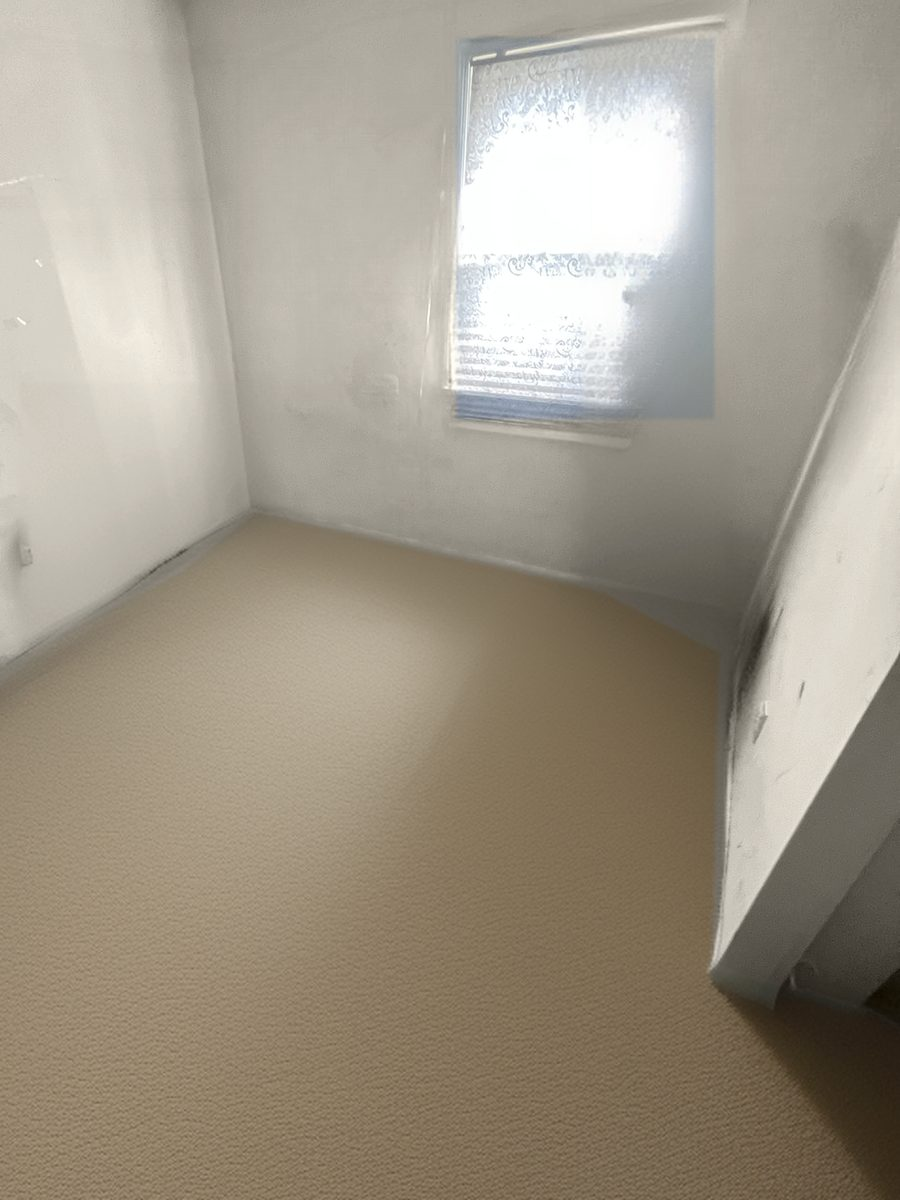
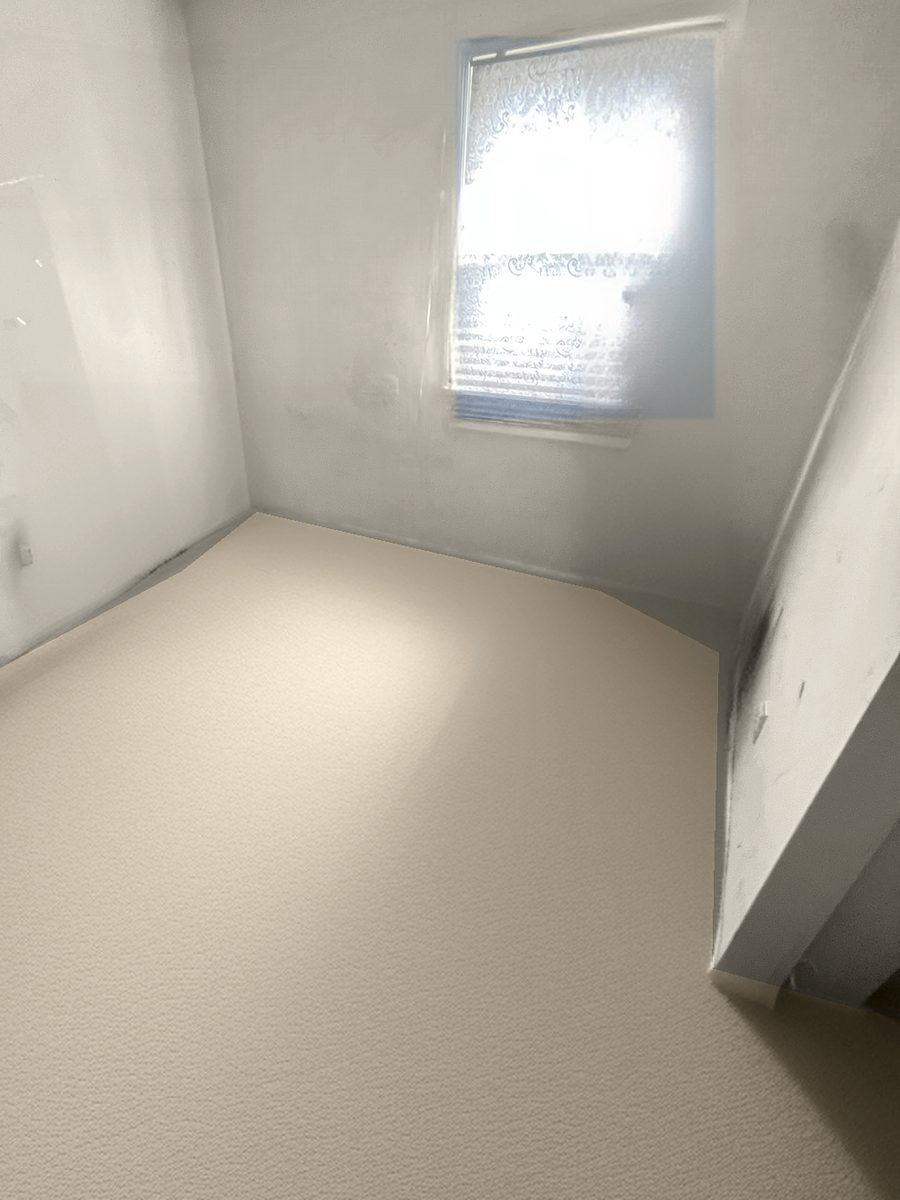
717 Gaskill: per-room package comparison (slider removed)
Claude-Session: https://claude.ai/code/session_01NLgoSYizUiw31tD78Qe9eR

diff --git a/projects/717-gaskill/investor/index.html b/projects/717-gaskill/investor/index.html
@@ -259,25 +259,26 @@
       .table-scroll { overflow: visible; }
       table.cmp { min-width: 0; }
     }
-    /* Before / after */
-    .ba-list { display: grid; gap: 56px; }
-    .ba { display: grid; gap: 28px; align-items: start; }
-    @media (min-width: 960px) { .ba { grid-template-columns: 1.15fr .85fr; } .ba:nth-child(even) .ba-figure { order: 2; } }
-    .ba-figure { margin: 0; }
-    .ba-frame { position: relative; aspect-ratio: 3 / 4; overflow: hidden; border: 1px solid var(--gray); background: var(--gray); touch-action: pan-y; user-select: none; }
-    .ba-frame img { position: absolute; inset: 0; width: 100%; height: 100%; object-fit: cover; display: block; pointer-events: none; }
-    .ba-frame .after { clip-path: inset(0 0 0 var(--pos, 50%)); }
-    .ba-handle { position: absolute; top: 0; bottom: 0; left: var(--pos, 50%); width: 2px; margin-left: -1px; background: #fff; box-shadow: 0 0 0 1px rgba(16,42,67,.25); pointer-events: none; }
-    .ba-handle::after { content: "\2194"; position: absolute; top: 50%; left: 50%; transform: translate(-50%,-50%); width: 40px; height: 40px; border-radius: 50%; background: var(--navy); color: #fff; border: 2px solid var(--gold); display: flex; align-items: center; justify-content: center; font-size: 18px; }
-    .ba-tag { position: absolute; top: 12px; font-size: 11px; font-weight: 600; letter-spacing: .16em; text-transform: uppercase; padding: 5px 10px; background: rgba(16,42,67,.82); color: #fff; pointer-events: none; }
-    .ba-tag.l { left: 12px; } .ba-tag.r { right: 12px; background: var(--gold); color: var(--navy); }
-    .ba-range { position: absolute; inset: 0; width: 100%; height: 100%; opacity: 0; cursor: ew-resize; margin: 0; }
-    .ba-cap { font-size: 12px; color: var(--muted); margin-top: 10px; }
-    .ba-body h3 { font-family: var(--head); color: var(--navy); font-size: 24px; margin-bottom: 14px; }
-    .ba-meta { list-style: none; border-top: 1px solid var(--gray); margin-top: 18px; }
-    .ba-meta li { display: flex; justify-content: space-between; gap: 16px; padding: 10px 0; border-bottom: 1px solid var(--gray); font-size: 14.5px; }
-    .ba-meta li span:first-child { color: var(--muted); }
-    .ba-meta li span:last-child { font-weight: 600; text-align: right; color: var(--charcoal); }
+    /* Package comparison by room */
+    .cmp-room { margin-top: 56px; }
+    .cmp-room:first-of-type { margin-top: 0; }
+    .cmp-room h3 { font-family: var(--head); color: var(--navy); font-size: 22px; text-transform: uppercase; letter-spacing: .06em; padding-bottom: 12px; border-bottom: 1px solid var(--gold); margin-bottom: 18px; }
+    .cmp-grid { display: grid; grid-template-columns: repeat(2, 1fr); gap: 10px; }
+    @media (min-width: 560px) { .cmp-grid { gap: 16px; } }
+    @media (max-width: 559px) { .cmp-card .hd { flex-direction: column; gap: 2px; padding: 10px; } .cmp-card .hd b { font-size: 11px; letter-spacing: .14em; } .cmp-card ul { padding: 10px; } .cmp-card li { font-size: 12.5px; padding-left: 14px; } .cmp-card li::before { width: 7px; height: 4px; top: 9px; } }
+    @media (min-width: 1040px) { .cmp-grid { grid-template-columns: repeat(4, 1fr); } }
+    .cmp-card { background: var(--white); border: 1px solid var(--gray); border-top: 3px solid var(--navy); border-radius: var(--radius); overflow: hidden; display: flex; flex-direction: column; }
+    .cmp-card.existing { border-top-color: var(--faint); }
+    .cmp-card.rec { border-color: var(--gold); border-top-color: var(--gold); }
+    .cmp-card .hd { display: flex; justify-content: space-between; align-items: baseline; gap: 8px; padding: 12px 14px; }
+    .cmp-card .hd b { font-family: var(--head); font-size: 12px; letter-spacing: .2em; color: var(--navy); }
+    .cmp-card .hd span { font-family: var(--head); font-weight: 800; color: var(--navy); }
+    .cmp-card .hd small { display: block; font-size: 10px; letter-spacing: .16em; color: var(--gold); font-weight: 700; margin-top: 2px; }
+    .cmp-card img { display: block; width: 100%; height: auto; aspect-ratio: 3 / 4; object-fit: cover; background: var(--gray); }
+    .cmp-card ul { list-style: none; margin: 0; padding: 12px 14px 14px; }
+    .cmp-card li { position: relative; padding: 3px 0 3px 18px; font-size: 14px; }
+    .cmp-card li::before { content: ""; position: absolute; left: 1px; top: 10px; width: 9px; height: 5px; border-left: 1.5px solid var(--gold); border-bottom: 1.5px solid var(--gold); transform: rotate(-45deg); }
+    .cmp-card.existing li::before { width: 8px; height: 1px; border: 0; background: var(--faint); transform: none; top: 13px; }
     /* Retainer viewer */
     button.btn { cursor: pointer; font: inherit; font-family: var(--head); font-weight: 700; font-size: 14px; letter-spacing: .06em; }
     .rv { position: fixed; inset: 0; z-index: 100; background: rgba(16,42,67,.96); display: none; flex-direction: column; }
@@ -709,121 +710,40 @@
     </div>
   </section>
 
-  <!-- BEFORE / AFTER -->
-  <section id="before-after">
+  <!-- PACKAGE COMPARISON BY ROOM -->
+  <section id="room-packages">
     <div class="wrap">
       <div class="sec-head">
-        <div class="eyebrow">Before &amp; after</div>
-        <h2>The actual house, before and after.</h2>
-        <p class="lede">Each view starts from a real photo of 717 Gaskill Ave and shows the recommended Investor package. Drag the handle to compare. These are conceptual visualizations of the proposed scope, not photos of completed work; the room-by-room plan for every package is in the <a href="mockups/">full gallery</a>.</p>
+        <div class="eyebrow">Room by room · by package</div>
+        <h2>What each package looks like in the actual house.</h2>
+        <p class="lede">Existing is the real photo. The three package views are conceptual visualizations made from that same photo, showing only work in each package's scope; final materials and colors are confirmed in writing before purchase. The <a href="mockups/">full gallery</a> covers every room.</p>
       </div>
-      <div class="ba-list">
-        <article class="ba" data-ba>
-          <figure class="ba-figure">
-            <div class="ba-frame" style="--pos:50%">
-              <img class="before" src="mockups/img/living-room-before.jpg" alt="Living room — existing condition" loading="lazy" decoding="async">
-              <img class="after" src="mockups/img/living-room-investor.jpg" alt="Living room — proposed, Investor package (conceptual visualization)" loading="lazy" decoding="async">
-              <span class="ba-tag l">Existing</span><span class="ba-tag r">Proposed</span>
-              <span class="ba-handle" aria-hidden="true"></span>
-              <input class="ba-range" type="range" min="0" max="100" value="50" aria-label="Living room: slide to compare existing and proposed">
-            </div>
-            <figcaption class="ba-cap">Conceptual visualization from the actual photo. Final materials, colors and fixtures may vary and are confirmed in writing before purchase.</figcaption>
-          </figure>
-          <div class="ba-body">
-            <div class="eyebrow">Proposed · Investor package</div>
-            <h3>Living room</h3>
-            <ul class="ticks"><li>Full clean-out of belongings</li><li>Walls Agreeable Gray, ceiling flat white</li><li>Existing oak hardwood kept and cleaned</li><li>Extra White trim, simple light fixture, new cover plates</li></ul>
-            <ul class="ba-meta">
-              <li><span>Stays in place</span><span>Vaulted ceiling, oak hardwood, windows, room layout</span></li>
-              <li><span>Budget</span><span>Included in the whole-home package price — Investor $19,950 (Complete $16,450 · Premium $26,400)</span></li>
-              <li><span>Timeline</span><span>Within the ~4-week Investor target</span></li>
-            </ul>
-          </div>
-        </article>
-        <article class="ba" data-ba>
-          <figure class="ba-figure">
-            <div class="ba-frame" style="--pos:50%">
-              <img class="before" src="mockups/img/kitchen-before.jpg" alt="Kitchen — existing condition" loading="lazy" decoding="async">
-              <img class="after" src="mockups/img/kitchen-investor.jpg" alt="Kitchen — proposed, Investor package (conceptual visualization)" loading="lazy" decoding="async">
-              <span class="ba-tag l">Existing</span><span class="ba-tag r">Proposed</span>
-              <span class="ba-handle" aria-hidden="true"></span>
-              <input class="ba-range" type="range" min="0" max="100" value="50" aria-label="Kitchen: slide to compare existing and proposed">
-            </div>
-            <figcaption class="ba-cap">Conceptual visualization from the actual photo. Final materials, colors and fixtures may vary and are confirmed in writing before purchase.</figcaption>
-          </figure>
-          <div class="ba-body">
-            <div class="eyebrow">Proposed · Investor package</div>
-            <h3>Kitchen</h3>
-            <ul class="ticks"><li>Walls Agreeable Gray (purple removed)</li><li>Missing upper doors replaced; all cabinets repainted white</li><li>Matte black cabinet pulls</li><li>Crystal pendant removed; simple flush LED light centered on the ceiling</li><li>Clean-out of the room and counters</li></ul>
-            <ul class="ba-meta">
-              <li><span>Stays in place</span><span>Cabinet boxes and layout, countertop, tile floor, appliances, window</span></li>
-              <li><span>Budget</span><span>Included in the whole-home package price — Investor $19,950 (Complete $16,450 · Premium $26,400)</span></li>
-              <li><span>Timeline</span><span>Within the ~4-week Investor target</span></li>
-            </ul>
-          </div>
-        </article>
-        <article class="ba" data-ba>
-          <figure class="ba-figure">
-            <div class="ba-frame" style="--pos:50%">
-              <img class="before" src="mockups/img/full-bath-before.jpg" alt="Full bathroom — existing condition" loading="lazy" decoding="async">
-              <img class="after" src="mockups/img/full-bath-investor.jpg" alt="Full bathroom — proposed, Investor package (conceptual visualization)" loading="lazy" decoding="async">
-              <span class="ba-tag l">Existing</span><span class="ba-tag r">Proposed</span>
-              <span class="ba-handle" aria-hidden="true"></span>
-              <input class="ba-range" type="range" min="0" max="100" value="50" aria-label="Full bathroom: slide to compare existing and proposed">
-            </div>
-            <figcaption class="ba-cap">Conceptual visualization from the actual photo. Final materials, colors and fixtures may vary and are confirmed in writing before purchase.</figcaption>
-          </figure>
-          <div class="ba-body">
-            <div class="eyebrow">Proposed · Investor package</div>
-            <h3>Full bathroom</h3>
-            <ul class="ticks"><li>Walls Alabaster (blue removed)</li><li>Shower valve/cartridge repaired; pressure-balance trim</li><li>Plain white shower curtain on a new rod</li><li>Brushed-nickel faucet and accessories</li><li>Clean-out</li></ul>
-            <ul class="ba-meta">
-              <li><span>Stays in place</span><span>Tub/shower, pedestal sink, toilet, tile floor, mirror, window</span></li>
-              <li><span>Budget</span><span>Included in the whole-home package price — Investor $19,950 (Complete $16,450 · Premium $26,400)</span></li>
-              <li><span>Timeline</span><span>Within the ~4-week Investor target</span></li>
-            </ul>
-          </div>
-        </article>
-        <article class="ba" data-ba>
-          <figure class="ba-figure">
-            <div class="ba-frame" style="--pos:50%">
-              <img class="before" src="mockups/img/bedroom-3-before-ba.jpg" alt="Bedroom — existing condition" loading="lazy" decoding="async">
-              <img class="after" src="mockups/img/bedroom-3-investor.jpg" alt="Bedroom — proposed, Investor package (conceptual visualization)" loading="lazy" decoding="async">
-              <span class="ba-tag l">Existing</span><span class="ba-tag r">Proposed</span>
-              <span class="ba-handle" aria-hidden="true"></span>
-              <input class="ba-range" type="range" min="0" max="100" value="50" aria-label="Bedroom: slide to compare existing and proposed">
-            </div>
-            <figcaption class="ba-cap">Conceptual visualization from the actual photo. Final materials, colors and fixtures may vary and are confirmed in writing before purchase.</figcaption>
-          </figure>
-          <div class="ba-body">
-            <div class="eyebrow">Proposed · Investor package</div>
-            <h3>Bedroom</h3>
-            <ul class="ticks"><li>Nail holes and wall damage repaired; walls Agreeable Gray</li><li>New better mid-grade carpet</li><li>Extra White baseboards and window trim</li><li>Clean-out</li></ul>
-            <ul class="ba-meta">
-              <li><span>Stays in place</span><span>Room size, window, closet, doors</span></li>
-              <li><span>Budget</span><span>Included in the whole-home package price — Investor $19,950 (Complete $16,450 · Premium $26,400)</span></li>
-              <li><span>Timeline</span><span>Within the ~4-week Investor target</span></li>
-            </ul>
-          </div>
-        </article>
-      </div>
+      <div class="cmp-room"><h3>Living room</h3><div class="cmp-grid">
+          <div class="cmp-card existing"><div class="hd"><b>EXISTING</b><span>Actual photo</span></div><img src="mockups/img/living-room-before.jpg" alt="Living room, existing condition (actual photo)" width="900" height="1200" loading="lazy" decoding="async"><ul><li>Belongings and clutter throughout</li><li>Gray walls, worn oak floor</li></ul></div>
+          <div class="cmp-card "><div class="hd"><b>COMPLETE</b><span>$16,450</span></div><img src="mockups/img/living-room-complete.jpg" alt="Living room, Complete package visualization" width="900" height="1200" loading="lazy" decoding="async"><ul><li>Clean-out</li><li>Walls Agreeable Gray, flat white ceiling</li><li>Existing oak floor cleaned</li><li>Existing trim cleaned</li></ul></div>
+          <div class="cmp-card rec"><div class="hd"><b>INVESTOR<small>Recommended balance</small></b><span>$19,950</span></div><img src="mockups/img/living-room-investor.jpg" alt="Living room, Investor package visualization" width="900" height="1200" loading="lazy" decoding="async"><ul><li>Everything in Complete</li><li>Extra White baseboards and trim</li><li>Floor deep-cleaned, wear marks lifted</li><li>New cover plates</li></ul></div>
+          <div class="cmp-card "><div class="hd"><b>PREMIUM</b><span>$26,400</span></div><img src="mockups/img/living-room-premium.jpg" alt="Living room, Premium package visualization" width="900" height="1200" loading="lazy" decoding="async"><ul><li>Everything in Investor</li><li>Upgraded LED ceiling fixture</li><li>Crisp repainted trim and doors</li></ul></div>
+      </div></div>
+      <div class="cmp-room"><h3>Kitchen</h3><div class="cmp-grid">
+          <div class="cmp-card existing"><div class="hd"><b>EXISTING</b><span>Actual photo</span></div><img src="mockups/img/kitchen-before.jpg" alt="Kitchen, existing condition (actual photo)" width="900" height="1200" loading="lazy" decoding="async"><ul><li>Purple walls, open cabinet bays</li><li>Pendant hung off-center by its cord</li></ul></div>
+          <div class="cmp-card "><div class="hd"><b>COMPLETE</b><span>$16,450</span></div><img src="mockups/img/kitchen-complete.jpg" alt="Kitchen, Complete package visualization" width="900" height="1200" loading="lazy" decoding="async"><ul><li>Walls Agreeable Gray</li><li>Missing doors replaced, cabinets painted white</li><li>Existing knobs and green laminate counter</li><li>Simple flush light, centered</li></ul></div>
+          <div class="cmp-card rec"><div class="hd"><b>INVESTOR<small>Recommended balance</small></b><span>$19,950</span></div><img src="mockups/img/kitchen-investor.jpg" alt="Kitchen, Investor package visualization" width="900" height="1200" loading="lazy" decoding="async"><ul><li>Everything in Complete</li><li>Matte black pulls on doors and drawers</li><li>Flush LED light, centered</li></ul></div>
+          <div class="cmp-card "><div class="hd"><b>PREMIUM</b><span>$26,400</span></div><img src="mockups/img/kitchen-premium.jpg" alt="Kitchen, Premium package visualization" width="900" height="1200" loading="lazy" decoding="async"><ul><li>Alabaster walls</li><li>Light stone-look laminate countertop</li><li>Matte black hardware</li><li>Tile and grout deep-cleaned</li></ul></div>
+      </div></div>
+      <div class="cmp-room"><h3>Bathroom</h3><div class="cmp-grid">
+          <div class="cmp-card existing"><div class="hd"><b>EXISTING</b><span>Actual photo</span></div><img src="mockups/img/full-bath-before.jpg" alt="Bathroom, existing condition (actual photo)" width="900" height="1200" loading="lazy" decoding="async"><ul><li>Blue walls, belongings on floor</li><li>Failed shower valve (out of frame)</li></ul></div>
+          <div class="cmp-card "><div class="hd"><b>COMPLETE</b><span>$16,450</span></div><img src="mockups/img/full-bath-complete.jpg" alt="Bathroom, Complete package visualization" width="900" height="1200" loading="lazy" decoding="async"><ul><li>Walls Alabaster</li><li>Shower valve repair, new rod and curtain</li><li>Existing faucet, clean presentation</li></ul></div>
+          <div class="cmp-card rec"><div class="hd"><b>INVESTOR<small>Recommended balance</small></b><span>$19,950</span></div><img src="mockups/img/full-bath-investor.jpg" alt="Bathroom, Investor package visualization" width="900" height="1200" loading="lazy" decoding="async"><ul><li>Everything in Complete</li><li>Brushed-nickel faucet and accessories</li><li>Pressure-balance shower trim</li></ul></div>
+          <div class="cmp-card "><div class="hd"><b>PREMIUM</b><span>$26,400</span></div><img src="mockups/img/full-bath-premium.jpg" alt="Bathroom, Premium package visualization" width="900" height="1200" loading="lazy" decoding="async"><ul><li>Everything in Investor</li><li>Added vanity wall light</li><li>Tub/shower surround kit (out of frame)</li></ul></div>
+      </div></div>
+      <div class="cmp-room"><h3>Bedroom</h3><div class="cmp-grid">
+          <div class="cmp-card existing"><div class="hd"><b>EXISTING</b><span>Actual photo</span></div><img src="mockups/img/bedroom-3-before-ba.jpg" alt="Bedroom, existing condition (actual photo)" width="900" height="1200" loading="lazy" decoding="async"><ul><li>Damaged walls, worn carpet</li><li>Signs, strings and debris</li></ul></div>
+          <div class="cmp-card "><div class="hd"><b>COMPLETE</b><span>$16,450</span></div><img src="mockups/img/bedroom-3-complete.jpg" alt="Bedroom, Complete package visualization" width="900" height="1200" loading="lazy" decoding="async"><ul><li>Walls patched, Agreeable Gray</li><li>Economical builder-grade carpet</li><li>Existing trim cleaned</li></ul></div>
+          <div class="cmp-card rec"><div class="hd"><b>INVESTOR<small>Recommended balance</small></b><span>$19,950</span></div><img src="mockups/img/bedroom-3-investor.jpg" alt="Bedroom, Investor package visualization" width="900" height="1200" loading="lazy" decoding="async"><ul><li>Everything in Complete</li><li>Better mid-grade carpet</li><li>Extra White baseboards and trim</li></ul></div>
+          <div class="cmp-card "><div class="hd"><b>PREMIUM</b><span>$26,400</span></div><img src="mockups/img/bedroom-3-premium.jpg" alt="Bedroom, Premium package visualization" width="900" height="1200" loading="lazy" decoding="async"><ul><li>Everything in Investor</li><li>Premium-grade plush carpet and pad</li><li>Crisp repainted trim and doors</li></ul></div>
+      </div></div>
     </div>
   </section>
-  <script>
-    (function () {
-      document.querySelectorAll('[data-ba]').forEach(function (card) {
-        var frame = card.querySelector('.ba-frame'), range = card.querySelector('.ba-range');
-        range.addEventListener('input', function () { frame.style.setProperty('--pos', range.value + '%'); });
-        // A room only appears once its proposed image exists.
-        card.querySelectorAll('img').forEach(function (img) {
-          function drop() { card.remove(); var list = document.querySelector('#before-after .ba-list');
-            if (list && !list.children.length) document.getElementById('before-after').remove(); }
-          img.addEventListener('error', drop);
-          if (img.complete && !img.naturalWidth) drop();
-        });
-      });
-    })();
-  </script>
 
   <!-- HVAC -->
   <section id="hvac">
